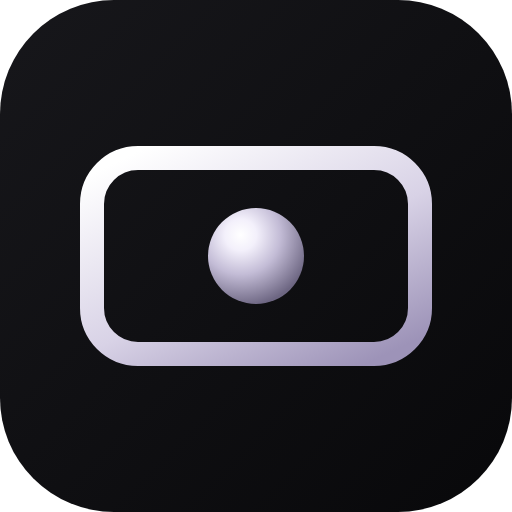
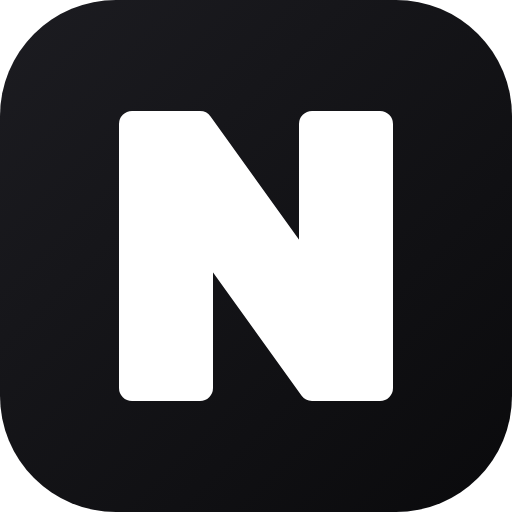
Логотип N, дышащая кнопка, свайп назад, без Face ID, правки экранов входа и категорий
Claude-Session: https://claude.ai/code/session_01FsDRmW33rEGe7btnssq8WG

diff --git a/app.js b/app.js
@@ -13,8 +13,11 @@ setRender(main);
 function main() {
   const acc = auth.account();
   if (!acc && !state.authMode) return renderWelcome();
-  if (!acc) return renderAuth(state.authMode);
-  if (!state.unlocked) return renderAuth(acc.credId && !state.usePassword ? 'lock' : 'login');
+  if (!acc) return renderOnboarding();
+  if (!state.unlocked) {
+    if (!auth.hasPassword()) { state.unlocked = true; return main(); }
+    return renderAuth('login');
+  }
   if (state.info) return renderInfo();
   if (state.flow === 'add') return renderAmount();
   if (state.flow === 'category') return renderCategory();
@@ -43,21 +46,16 @@ function renderWelcome() {
       <div class="aurora"></div>
       <div class="brand">NOTA</div>
       <div class="auth-body">
-        <h1>Деньги под контролем</h1>
-        <p>Записывайте траты в одно касание.</p>
-        <button class="btn" id="reg">Создать аккаунт <span class="arr">→</span></button>
-        <button class="btn ghost" id="log">Восстановить из копии</button>
+        <h1>Записывайте траты<br>в одно касание</h1>
+        <button class="btn breathe" id="reg">Создать аккаунт <span class="arr">→</span></button>
       </div>
     </section>`;
   app.querySelector('#reg').onclick = () => { state.authMode = 'register'; state.step = 0; state.draft = {}; render(); };
-  app.querySelector('#log').onclick = restoreBackup;
 }
 
 /* ---------- регистрация ---------- */
-function renderAuth(mode) {
+function renderAuth() {
   const acc = auth.account();
-  if (mode === 'register') return renderOnboarding();
-
   app.innerHTML = `
     <section class="screen auth">
       <div class="aurora"></div>
@@ -65,47 +63,28 @@ function renderAuth(mode) {
       <div class="auth-body">
         <h1>С возвращением</h1>
         <p>${esc(acc?.login || '')}</p>
-        ${mode === 'lock' ? `
-          <div class="stack">
-            <button class="btn with-icon" id="faceid">${icons.face} Войти с Face ID</button>
-            <div class="error" id="err"></div>
-            ${auth.hasPassword() ? '<button class="btn ghost" id="usepass">Войти по паролю</button>' : ''}
-          </div>` : `
-          <form novalidate>
-            <input class="field" name="password" type="password" placeholder="Пароль" autocomplete="current-password" autofocus>
-            <div class="error" id="err"></div>
-            <button class="btn" type="submit">Войти <span class="arr">→</span></button>
-          </form>
-          <div class="switch">${acc.credId ? '<button id="back-faceid">Face ID</button>' : ''}${acc.credId && auth.hasPassword() ? ' · ' : ''}${auth.hasPassword() ? '<button id="reset" class="muted-link">Забыли пароль?</button>' : ''}</div>`}
+        <form novalidate>
+          <input class="field" name="password" type="password" placeholder="Пароль" autocomplete="current-password">
+          <div class="error" id="err"></div>
+          <button class="btn" type="submit">Войти <span class="arr">→</span></button>
+        </form>
+        <div class="switch"><button id="reset" class="muted-link">Забыли пароль?</button></div>
       </div>
     </section>`;
 
-  const err = app.querySelector('#err');
-  const fail = (msg) => { err.textContent = msg; };
-
-  if (mode === 'lock') {
-    app.querySelector('#faceid').onclick = async () => {
-      try { (await auth.verifyFaceId()) ? unlock() : fail('Не удалось подтвердить'); } catch { fail('Face ID отменён'); }
-    };
-    app.querySelector('#usepass')?.addEventListener('click', () => { state.usePassword = true; render(); });
-    return;
-  }
-
-  app.querySelector('#back-faceid')?.addEventListener('click', () => { state.usePassword = false; render(); });
-  app.querySelector('#reset')?.addEventListener('click', async () => {
+  app.querySelector('#reset').onclick = async () => {
     if (!(await ask('Сбросить аккаунт?', 'Пароль восстановить нельзя. Все траты на этом устройстве будут удалены.', 'Сбросить'))) return;
     await store.wipe();
     auth.reset();
     localStorage.removeItem('loggedIn');
     localStorage.removeItem('avatar');
-    localStorage.removeItem('avatarEmoji');
     render();
-  });
+  };
   app.querySelector('form').onsubmit = async (e) => {
     e.preventDefault();
     const { password = '' } = Object.fromEntries(new FormData(e.target));
     if (await auth.checkPassword(null, password)) unlock();
-    else fail('Неверный пароль');
+    else app.querySelector('#err').textContent = 'Неверный пароль';
   };
 }
 
@@ -450,6 +429,38 @@ document.addEventListener('keydown', (e) => {
 });
 
 store.onChange(() => { if (!state.flow) render(); });
+
+// Жест «назад»: свайп от левого края вправо
+function goBack() {
+  if (state.info) { state.info = null; return render(); }
+  if (state.flow === 'newcat') { state.flow = 'category'; return render(); }
+  if (state.flow === 'category') { state.flow = 'add'; return render(); }
+  if (state.flow === 'import' || state.flow === 'cats') { state.flow = null; state.tab = 'profile'; return render(); }
+  if (state.flow === 'cat') { state.flow = null; state.catId = null; return render(); }
+  if (state.flow === 'add') { state.edit = null; return go(state.tab || 'home'); }
+  if (state.tab !== 'home') return go('home');
+}
+
+let swipe = null;
+document.addEventListener('touchstart', (e) => {
+  const t = e.touches[0];
+  swipe = t.clientX <= 28 ? { x: t.clientX, y: t.clientY, t: Date.now() } : null;
+}, { passive: true });
+document.addEventListener('touchmove', (e) => {
+  if (!swipe) return;
+  const t = e.touches[0];
+  if (Math.abs(t.clientY - swipe.y) > 60) swipe = null;
+  else document.body.style.setProperty('--swipe', `${Math.min(1, Math.max(0, (t.clientX - swipe.x) / 110))}`);
+}, { passive: true });
+document.addEventListener('touchend', (e) => {
+  document.body.style.removeProperty('--swipe');
+  if (!swipe) return;
+  const t = e.changedTouches[0];
+  const far = t.clientX - swipe.x > 70;
+  const quick = Date.now() - swipe.t < 700;
+  swipe = null;
+  if (far && quick) { haptic(); goBack(); }
+}, { passive: true });
 
 applySkin();
 if ('serviceWorker' in navigator) navigator.serviceWorker.register('./sw.js');

diff --git a/styles.css b/styles.css
@@ -173,7 +173,7 @@ button { background: none; border: 0; cursor: pointer; touch-action: manipulatio
 .empty.sm { padding: 26px; }
 
 /* ---------- auth ---------- */
-.auth { justify-content: flex-end; }
+.auth { justify-content: flex-end; padding-bottom: calc(var(--safe-bottom) + 28px); }
 .brand {
   position: absolute; top: calc(var(--safe-top) + 16px); left: 0; right: 0;
   z-index: 2;
@@ -181,7 +181,7 @@ button { background: none; border: 0; cursor: pointer; touch-action: manipulatio
   font-size: 13px; font-weight: 600; letter-spacing: .26em; color: rgba(255, 255, 255, .9);
 }
 .brand .orb { width: 18px; height: 18px; }
-.auth-body { padding-bottom: 8px; display: grid; gap: 14px; }
+.auth-body { display: grid; gap: 14px; }
 .auth h1 { font-size: 29px; line-height: 1.2; font-weight: 700; letter-spacing: -.035em; }
 .auth p { color: var(--muted); font-size: 15px; line-height: 1.5; letter-spacing: 0; }
 .auth form { display: grid; gap: 10px; margin-top: 8px; }
@@ -242,8 +242,12 @@ button { background: none; border: 0; cursor: pointer; touch-action: manipulatio
   transition: background .15s, box-shadow .15s;
 }
 .cat span { font-size: 11.5px; color: var(--muted); text-align: center; line-height: 1.25; letter-spacing: 0; }
-.cat.on { background: var(--surface); border-color: var(--border-strong); }
-.cat.on .ico { background: linear-gradient(160deg, var(--skin-a), var(--skin-b)); border-color: transparent; box-shadow: 0 6px 22px rgba(0, 0, 0, .45); }
+.cat.on { background: color-mix(in srgb, var(--skin-b) 10%, transparent); border-color: color-mix(in srgb, var(--skin-a) 55%, transparent); }
+.cat.on .ico {
+  border-color: color-mix(in srgb, var(--skin-a) 60%, transparent);
+  box-shadow: 0 0 0 1px color-mix(in srgb, var(--skin-a) 25%, transparent), 0 0 18px color-mix(in srgb, var(--skin-b) 35%, transparent);
+}
+.cat.on .ico .ci { color: #fff; filter: drop-shadow(0 0 7px color-mix(in srgb, var(--skin-a) 85%, transparent)); }
 .cat.on span { color: var(--text); }
 
 .bottom { display: grid; gap: 10px; padding: 10px 18px 0; border-top: 1px solid var(--border); margin: 0 -18px; }
@@ -650,9 +654,9 @@ button.cat-row { animation: rise .4s ease-out backwards; animation-delay: calc(v
 @keyframes modal-in { from { opacity: 0; transform: translateY(14px) scale(.96); } }
 
 /* ---------- живая обводка интерактивных блоков ---------- */
-.row, .day, .more, .switch-row, .chip, .btn, .field, .search-bar, .month-name, .amount-chip, .icon-btn, button.res {
-  position: relative;
-}
+.row, .day, .more, .switch-row, button.res { position: relative; }
+button:focus { outline: none; }
+button:focus-visible { outline: 2px solid color-mix(in srgb, var(--skin-a) 70%, transparent); outline-offset: 2px; }
 .row::after, .day::after, .more::after, .switch-row::after, button.res::after {
   content: ""; position: absolute; inset: 0; border-radius: inherit; pointer-events: none;
   padding: 1px; opacity: 0; transition: opacity .25s;
@@ -703,3 +707,48 @@ button.cat-row { animation: rise .4s ease-out backwards; animation-delay: calc(v
 .date-chip b { font-size: 13px; font-weight: 600; font-variant-numeric: tabular-nums; }
 .date-chip.set { background: #ededf0; color: #141416; border-color: transparent; }
 .date-chip input { position: absolute; inset: 0; opacity: 0; width: 100%; height: 100%; }
+
+
+/* ---------- дышащая кнопка ---------- */
+.btn.breathe { position: relative; overflow: hidden; isolation: isolate; }
+.btn.breathe::before, .btn.breathe::after {
+  content: ""; position: absolute; inset: -60%; z-index: -1; pointer-events: none;
+  filter: blur(16px); opacity: 1;
+}
+.btn.breathe::before {
+  background:
+    radial-gradient(30% 50% at 22% 50%, color-mix(in srgb, var(--skin-c) 85%, transparent), transparent 70%),
+    radial-gradient(26% 44% at 70% 40%, color-mix(in srgb, var(--skin-b) 95%, transparent), transparent 70%);
+  animation: drift-a 11s linear infinite;
+}
+.btn.breathe::after {
+  background:
+    radial-gradient(24% 42% at 48% 64%, color-mix(in srgb, var(--skin-b) 85%, transparent), transparent 72%),
+    radial-gradient(28% 46% at 86% 55%, color-mix(in srgb, var(--skin-c) 70%, transparent), transparent 72%);
+  animation: drift-b 17s linear infinite;
+}
+@keyframes drift-a {
+  0% { transform: translate3d(0, 0, 0) scale(1); }
+  25% { transform: translate3d(9%, -4%, 0) scale(1.1); }
+  50% { transform: translate3d(2%, 5%, 0) scale(.95); }
+  75% { transform: translate3d(-8%, -2%, 0) scale(1.06); }
+  100% { transform: translate3d(0, 0, 0) scale(1); }
+}
+@keyframes drift-b {
+  0% { transform: translate3d(0, 0, 0) scale(1.05); }
+  33% { transform: translate3d(-10%, 4%, 0) scale(.92); }
+  66% { transform: translate3d(7%, -5%, 0) scale(1.12); }
+  100% { transform: translate3d(0, 0, 0) scale(1.05); }
+}
+@media (prefers-reduced-motion: reduce) { .btn.breathe::before, .btn.breathe::after { animation: none; } }
+
+/* ---------- чипы поиска ---------- */
+.chip {
+  display: inline-flex; align-items: center; gap: 6px;
+  height: 34px; line-height: 1; white-space: nowrap;
+}
+.chip .ci { width: 15px; height: 15px; margin: 0; vertical-align: 0; }
+
+/* ---------- подсказка свайпа ---------- */
+body { --swipe: 0; }
+#app { transform: translateX(calc(var(--swipe, 0) * 16px)); transition: transform .12s ease-out; }

diff --git a/screens.js b/screens.js
@@ -517,7 +517,6 @@ export async function renderProfile() {
   const acc = auth.account();
   const all = await store.allExpenses();
   const imported = await store.importedCount();
-  const faceId = await auth.faceIdAvailable();
 
   const item = (id, icon, label, extra = '') =>
     `<button class="row" data-a="${id}">${icon}<span>${label}</span><span class="row-extra">${extra}</span></button>`;
@@ -541,7 +540,6 @@ export async function renderProfile() {
           ${item('password', icons.lock, auth.hasPassword() ? 'Сменить пароль' : 'Поставить пароль', auth.hasPassword() ? '' : 'Выкл')}
           ${auth.hasPassword() ? item('nopass', icons.lock, 'Убрать пароль') : ''}
           ${item('cats', icons.tag, 'Свои категории', String(customCategories().length))}
-          ${faceId ? item('faceid', icons.face, 'Face ID', acc.credId ? 'Вкл' : 'Выкл') : ''}
         </div>
         <div class="section-label">Данные</div>
         <div class="card rows">
@@ -551,7 +549,7 @@ export async function renderProfile() {
         </div>
         ${imported ? `<div class="card rows">${item('clear-imported', icons.trash, 'Удалить импортированные', String(imported))}</div>` : ''}
         <div class="card rows">
-          ${item('logout', icons.out, 'Выйти')}
+          ${auth.hasPassword() ? item('logout', icons.out, 'Выйти') : item('wipe', icons.trash, 'Сбросить аккаунт')}
         </div>
         <div class="version">NOTA · данные хранятся на этом устройстве</div>
       </div>
@@ -582,7 +580,6 @@ export async function renderProfile() {
       });
     }
     if (a === 'cats') { state.flow = 'cats'; return render(); }
-    if (a === 'faceid') return toggleFaceId(acc);
     if (a === 'statement') return pickStatement();
     if (a === 'export') return exportData();
     if (a === 'import') return importData();
@@ -594,6 +591,17 @@ export async function renderProfile() {
       state.unlocked = false;
       localStorage.removeItem('loggedIn');
       render();
+    }
+    if (a === 'wipe') {
+      return ask('Сбросить аккаунт?', 'Имя, настройки и все траты на этом устройстве будут удалены.', 'Сбросить').then(async (yes) => {
+        if (!yes) return;
+        await store.wipe();
+        auth.reset();
+        ['loggedIn', 'avatar', 'avatarSkin', 'customCats'].forEach((k) => localStorage.removeItem(k));
+        state.unlocked = false;
+        state.authMode = null;
+        render();
+      });
     }
   });
 }
@@ -673,21 +681,6 @@ export function renderCustomCats() {
       render();
     });
   });
-}
-
-async function toggleFaceId(acc) {
-  if (acc.credId) {
-    auth.disableFaceId();
-    toast('Face ID отключён');
-    return render();
-  }
-  try {
-    await auth.enableFaceId();
-    toast('Face ID включён');
-    render();
-  } catch {
-    toast('Не удалось включить Face ID');
-  }
 }
 
 async function exportData() {

diff --git a/auth.js b/auth.js
@@ -1,4 +1,4 @@
-// Локальный аккаунт: логин и хеш пароля (PBKDF2) хранятся на устройстве, Face ID — через WebAuthn (passkey)
+// Локальный аккаунт: имя и необязательный хеш пароля (PBKDF2) хранятся на устройстве
 const KEY = 'account';
 const b64 = (buf) => btoa(String.fromCharCode(...new Uint8Array(buf)));
 const unb64 = (s) => Uint8Array.from(atob(s), (c) => c.charCodeAt(0));
@@ -15,7 +15,7 @@ async function hash(password, salt) {
 
 // Пароля при регистрации нет — он включается позже в профиле
 export function register(login) {
-  write({ login, salt: null, hash: null, credId: null });
+  write({ login, salt: null, hash: null });
   navigator.storage?.persist?.();
 }
 
@@ -24,7 +24,7 @@ export const hasPassword = () => !!read()?.hash;
 // Приложение открыто без запроса, пока нет ни пароля, ни Face ID
 export const isOpen = () => {
   const acc = read();
-  return !!acc && !acc.hash && !acc.credId;
+  return !!acc && !acc.hash;
 };
 
 export async function setPassword(password) {
@@ -53,46 +53,9 @@ export function rename(login) {
   write({ ...read(), login });
 }
 
-export async function faceIdAvailable() {
-  try { return !!(await window.PublicKeyCredential?.isUserVerifyingPlatformAuthenticatorAvailable()); } catch { return false; }
-}
-
-export async function enableFaceId() {
-  const acc = read();
-  const cred = await navigator.credentials.create({
-    publicKey: {
-      challenge: crypto.getRandomValues(new Uint8Array(32)),
-      rp: { name: 'NOTA' },
-      user: { id: crypto.getRandomValues(new Uint8Array(16)), name: acc.login, displayName: acc.login },
-      pubKeyCredParams: [{ type: 'public-key', alg: -7 }, { type: 'public-key', alg: -257 }],
-      authenticatorSelection: { authenticatorAttachment: 'platform', userVerification: 'required', residentKey: 'preferred' },
-      timeout: 60000,
-    },
-  });
-  write({ ...acc, credId: b64(cred.rawId) });
-}
-
-export function disableFaceId() {
-  write({ ...read(), credId: null });
-}
-
-export async function verifyFaceId() {
-  const acc = read();
-  const res = await navigator.credentials.get({
-    publicKey: {
-      challenge: crypto.getRandomValues(new Uint8Array(32)),
-      allowCredentials: [{ type: 'public-key', id: unb64(acc.credId) }],
-      userVerification: 'required',
-      timeout: 60000,
-    },
-  });
-  // бит UV (0x04) во флагах authenticatorData — пользователь подтверждён биометрией или кодом
-  return (new Uint8Array(res.response.authenticatorData)[32] & 0x04) !== 0;
-}
-
 export function restore(acc) {
   if (!acc?.login) throw new Error('bad backup');
-  write({ login: acc.login, salt: acc.salt || null, hash: acc.hash || null, credId: null });
+  write({ login: acc.login, salt: acc.salt || null, hash: acc.hash || null });
   navigator.storage?.persist?.();
 }
 

diff --git a/sw.js b/sw.js
@@ -1,4 +1,4 @@
-const CACHE = 'nota-v12';
+const CACHE = 'nota-v13';
 const SHELL = ['./', './index.html', './styles.css', './app.js', './store.js', './auth.js', './ui.js', './screens.js', './statement.js', './manifest.webmanifest', './icon.svg', './icon-180.png', './icon-512.png', './fonts/manrope-latin.woff2', './fonts/manrope-cyrillic.woff2'];
 
 self.addEventListener('install', (e) => {
